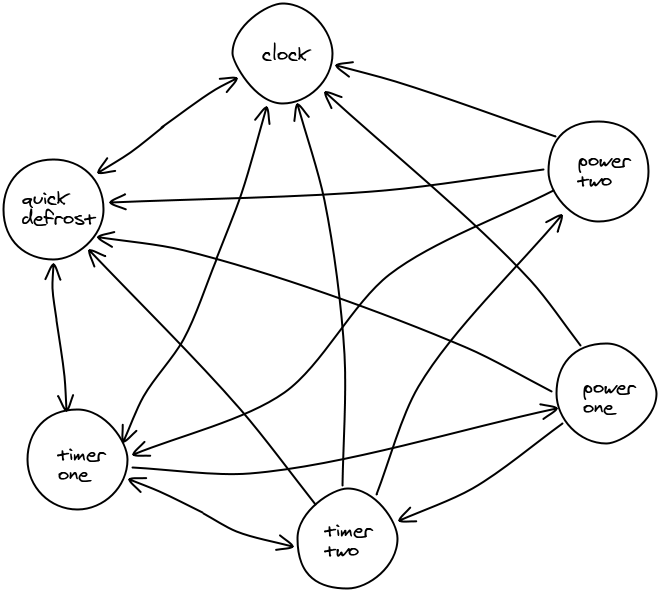
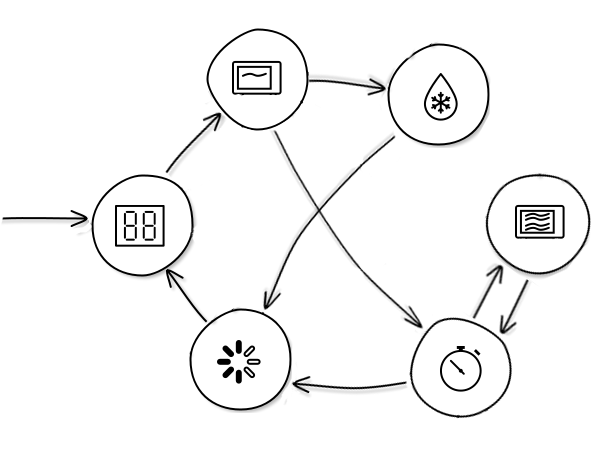
Recreate microwave example, content needs updating to match

diff --git a/csfieldguide/chapters/content/en/formal-languages/sections/finite-state-automata.md b/csfieldguide/chapters/content/en/formal-languages/sections/finite-state-automata.md
@@ -343,13 +343,14 @@ Anything that has a few buttons on it and gets into different states when you pr
 
 With such gadgets, FSAs can be used by designers to plan what will happen for every input in every situation, but they can also be used to analyse the interface of a device.
 If the FSA that describes a device is really complicated, it's a warning that the interface is likely to be hard to understand.
-For example, here's an FSA for a microwave oven.
+For example, here's an FSA for a microwave oven, though a lot of details have been omitted for clarity.
 It reveals that, for example, you can't get from power2 to power1 without going through timer1.
 Restrictions like this will be very frustrating for a user.
 For example, if they try to set power1 it won't work until they've set timer1 first.
 Once you know this sequence it's easy, but the designer should think about whether it's necessary to force the user into that sort of sequence.
 These sorts of issues become clear when you look at the FSA.
-But we're straying into the area of Human-Computer Interaction! This isn't surprising because most areas of computer science end up relating to each other — but this isn't a major application of FSAs, so let's get back to more common uses.
+But we're straying into the area of Human-Computer Interaction!
+This isn't surprising because most areas of computer science end up relating to each other — but this isn't a major application of FSAs.
 
 {image file-path="img/chapters/finite-state-automata-microwave-example.png" alt="FSA for a microwave oven"}
 
